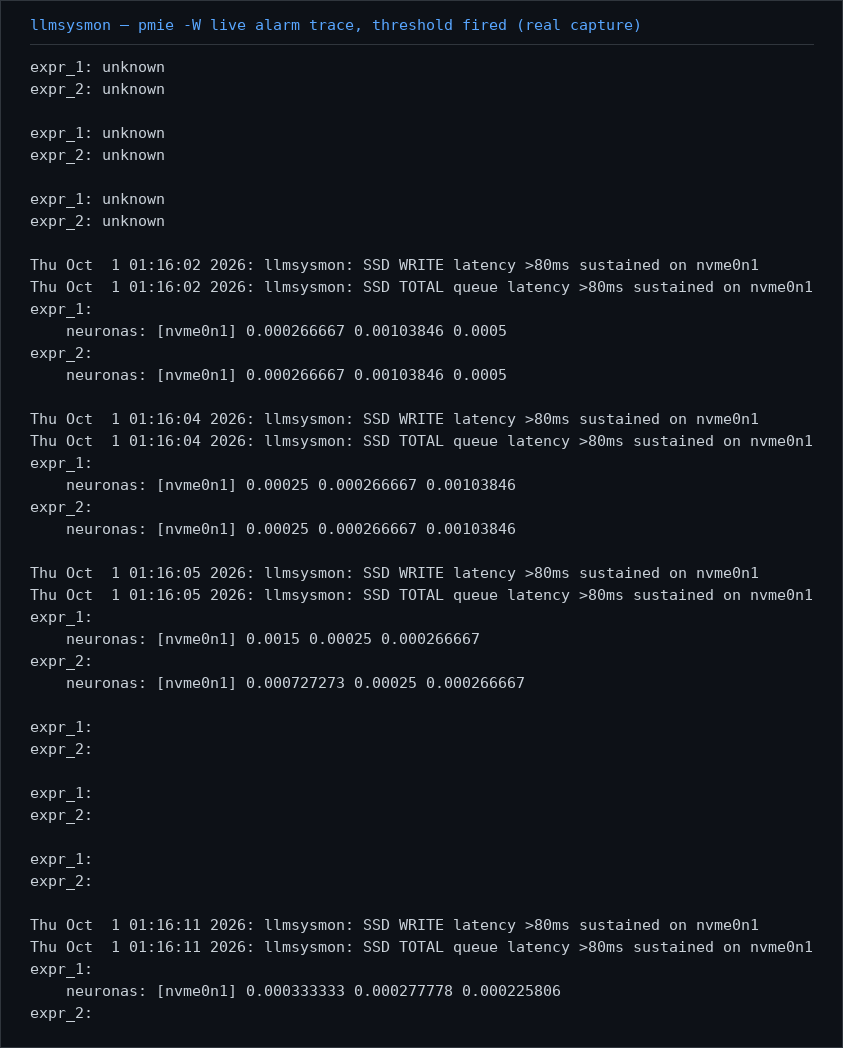
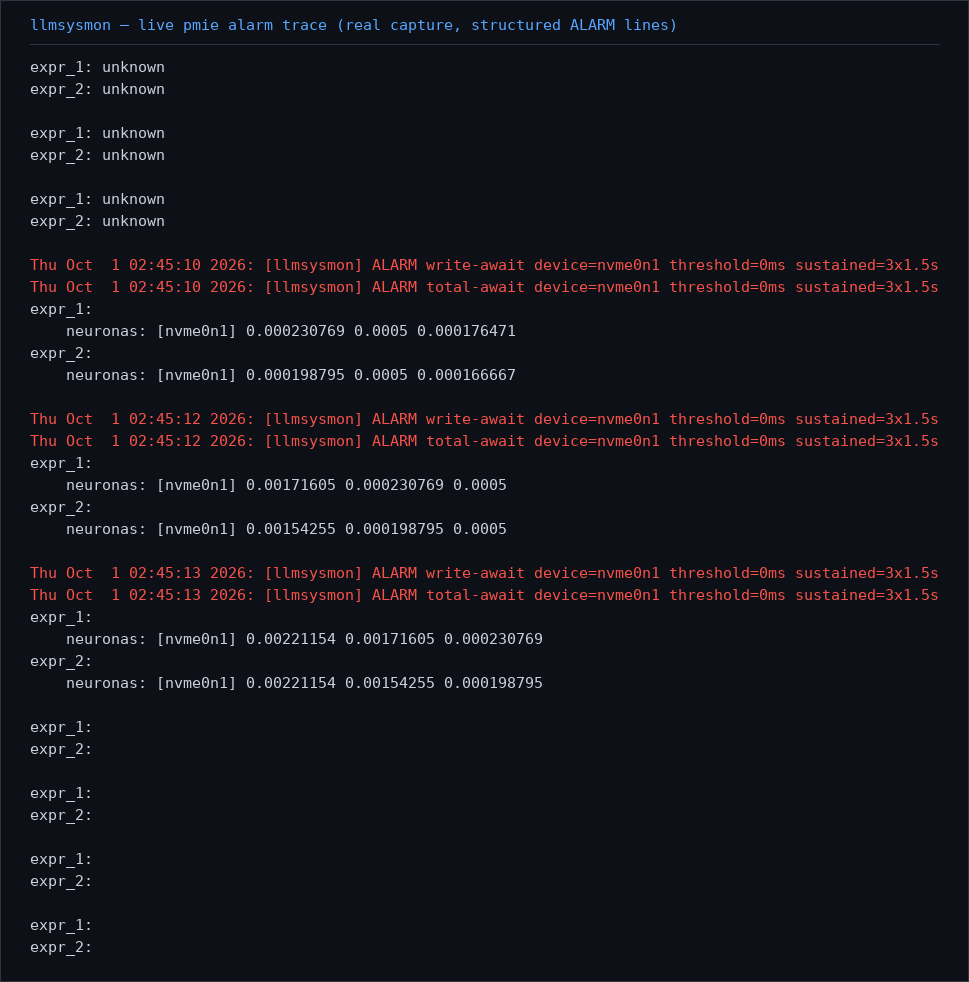
assets: regenerate real captures (install, alarm, heartbeat); README heartbeat shot

diff --git a/README.md b/README.md
@@ -72,6 +72,8 @@ pops up automatically.
   terminal you're already using.
 - `/pmie --detach` — opens the heartbeat in a small dedicated terminal window,
   so your main terminal stays free.
+
+  ![pmie heartbeat — real capture](assets/pmie-heartbeat.png)
 - `/pmie --detach-gui` — opens a graph window with line charts for write await
   and total await per disk. It follows your desktop dark/light theme and prefers
   the discrete GPU (`DRI_PRIME=1`) for smooth rendering. Requires `pcp-gui`,
